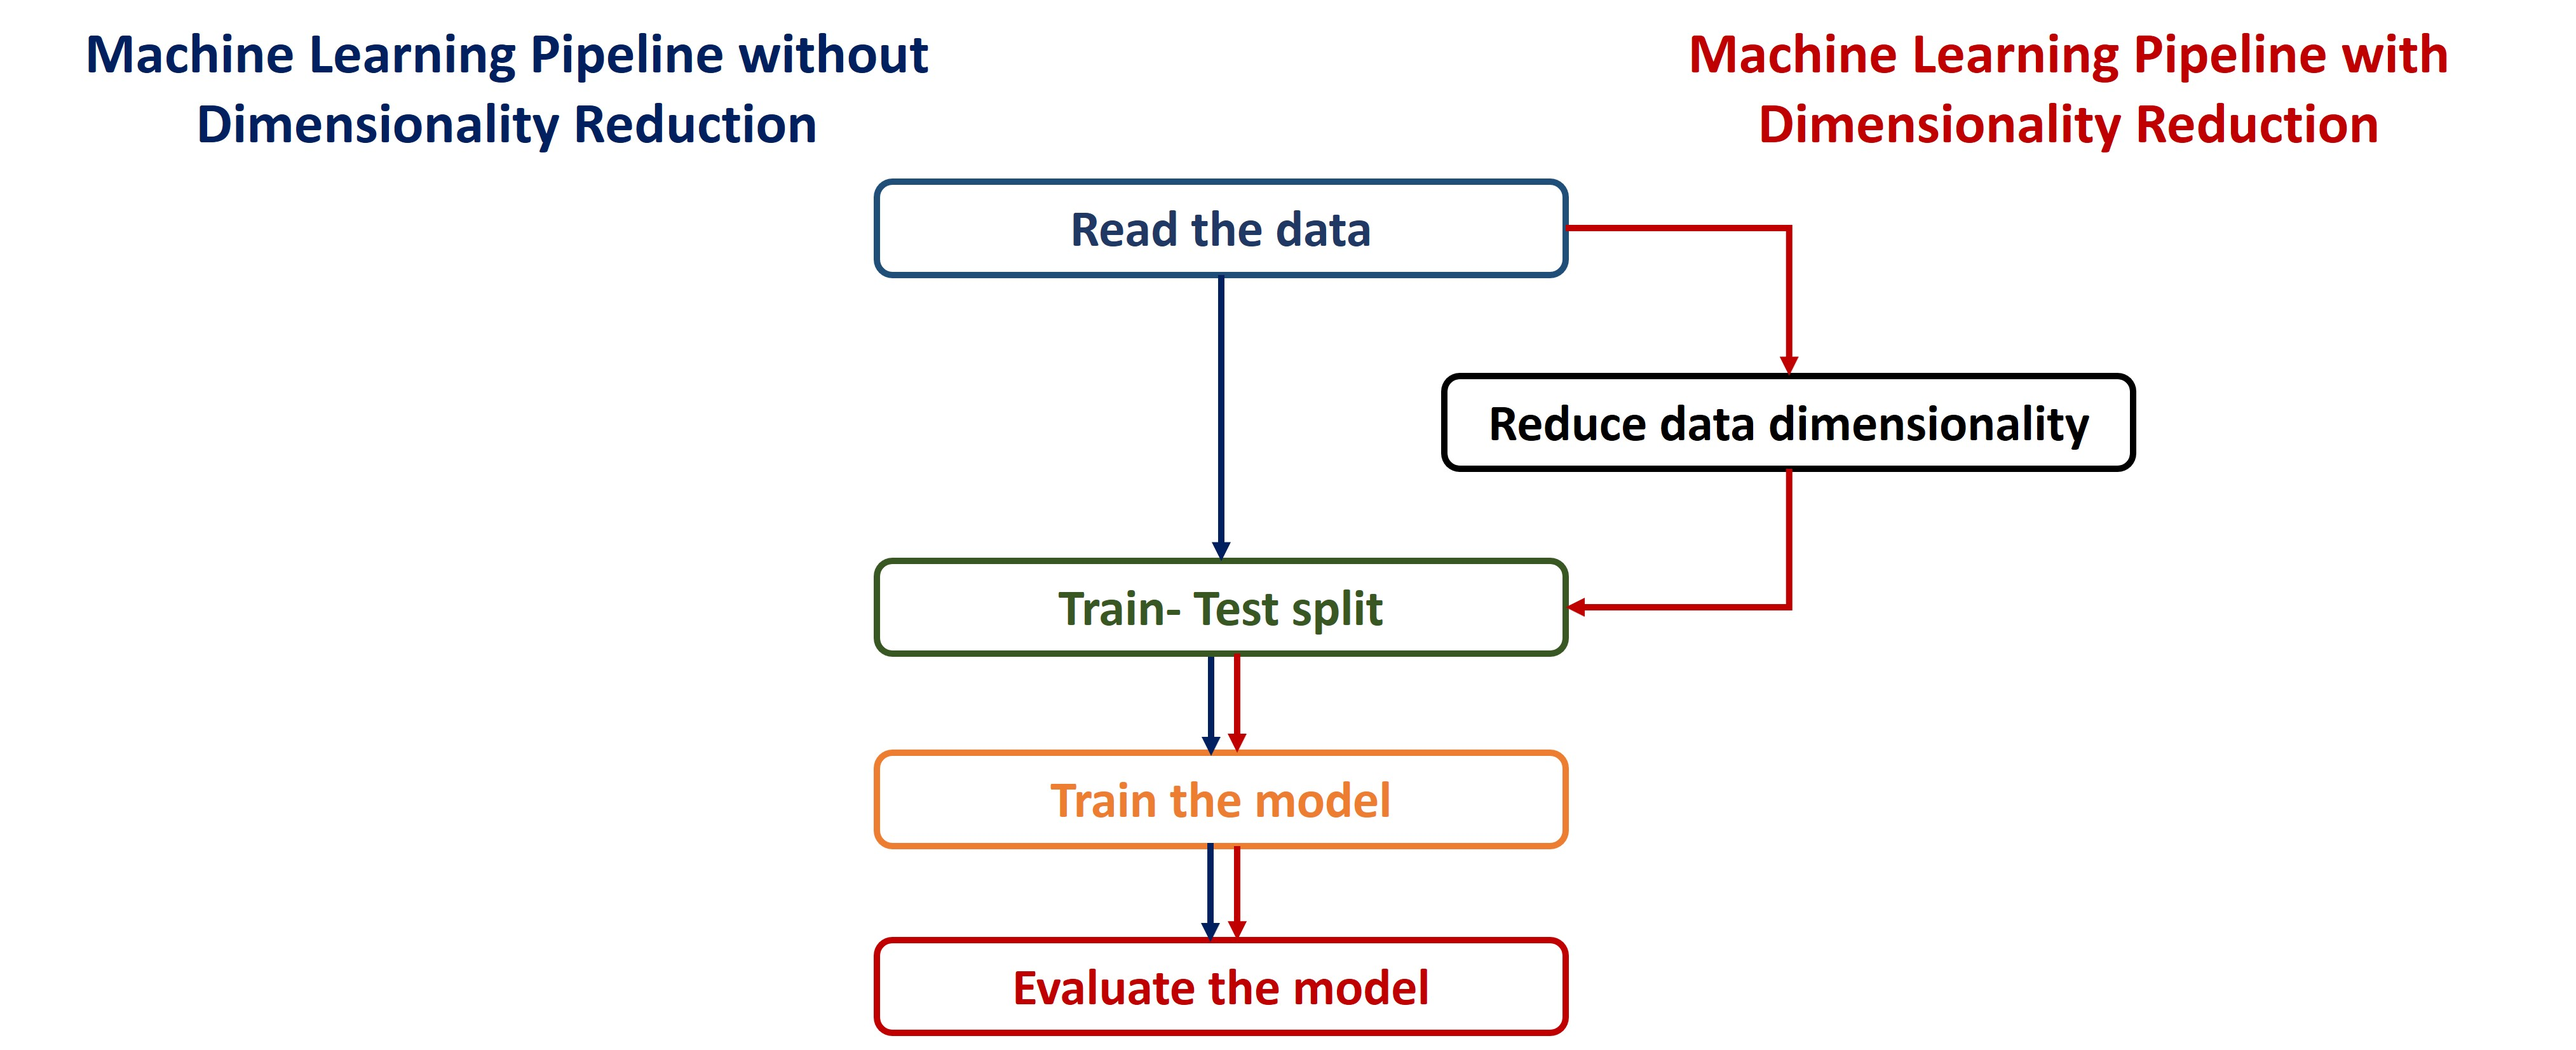
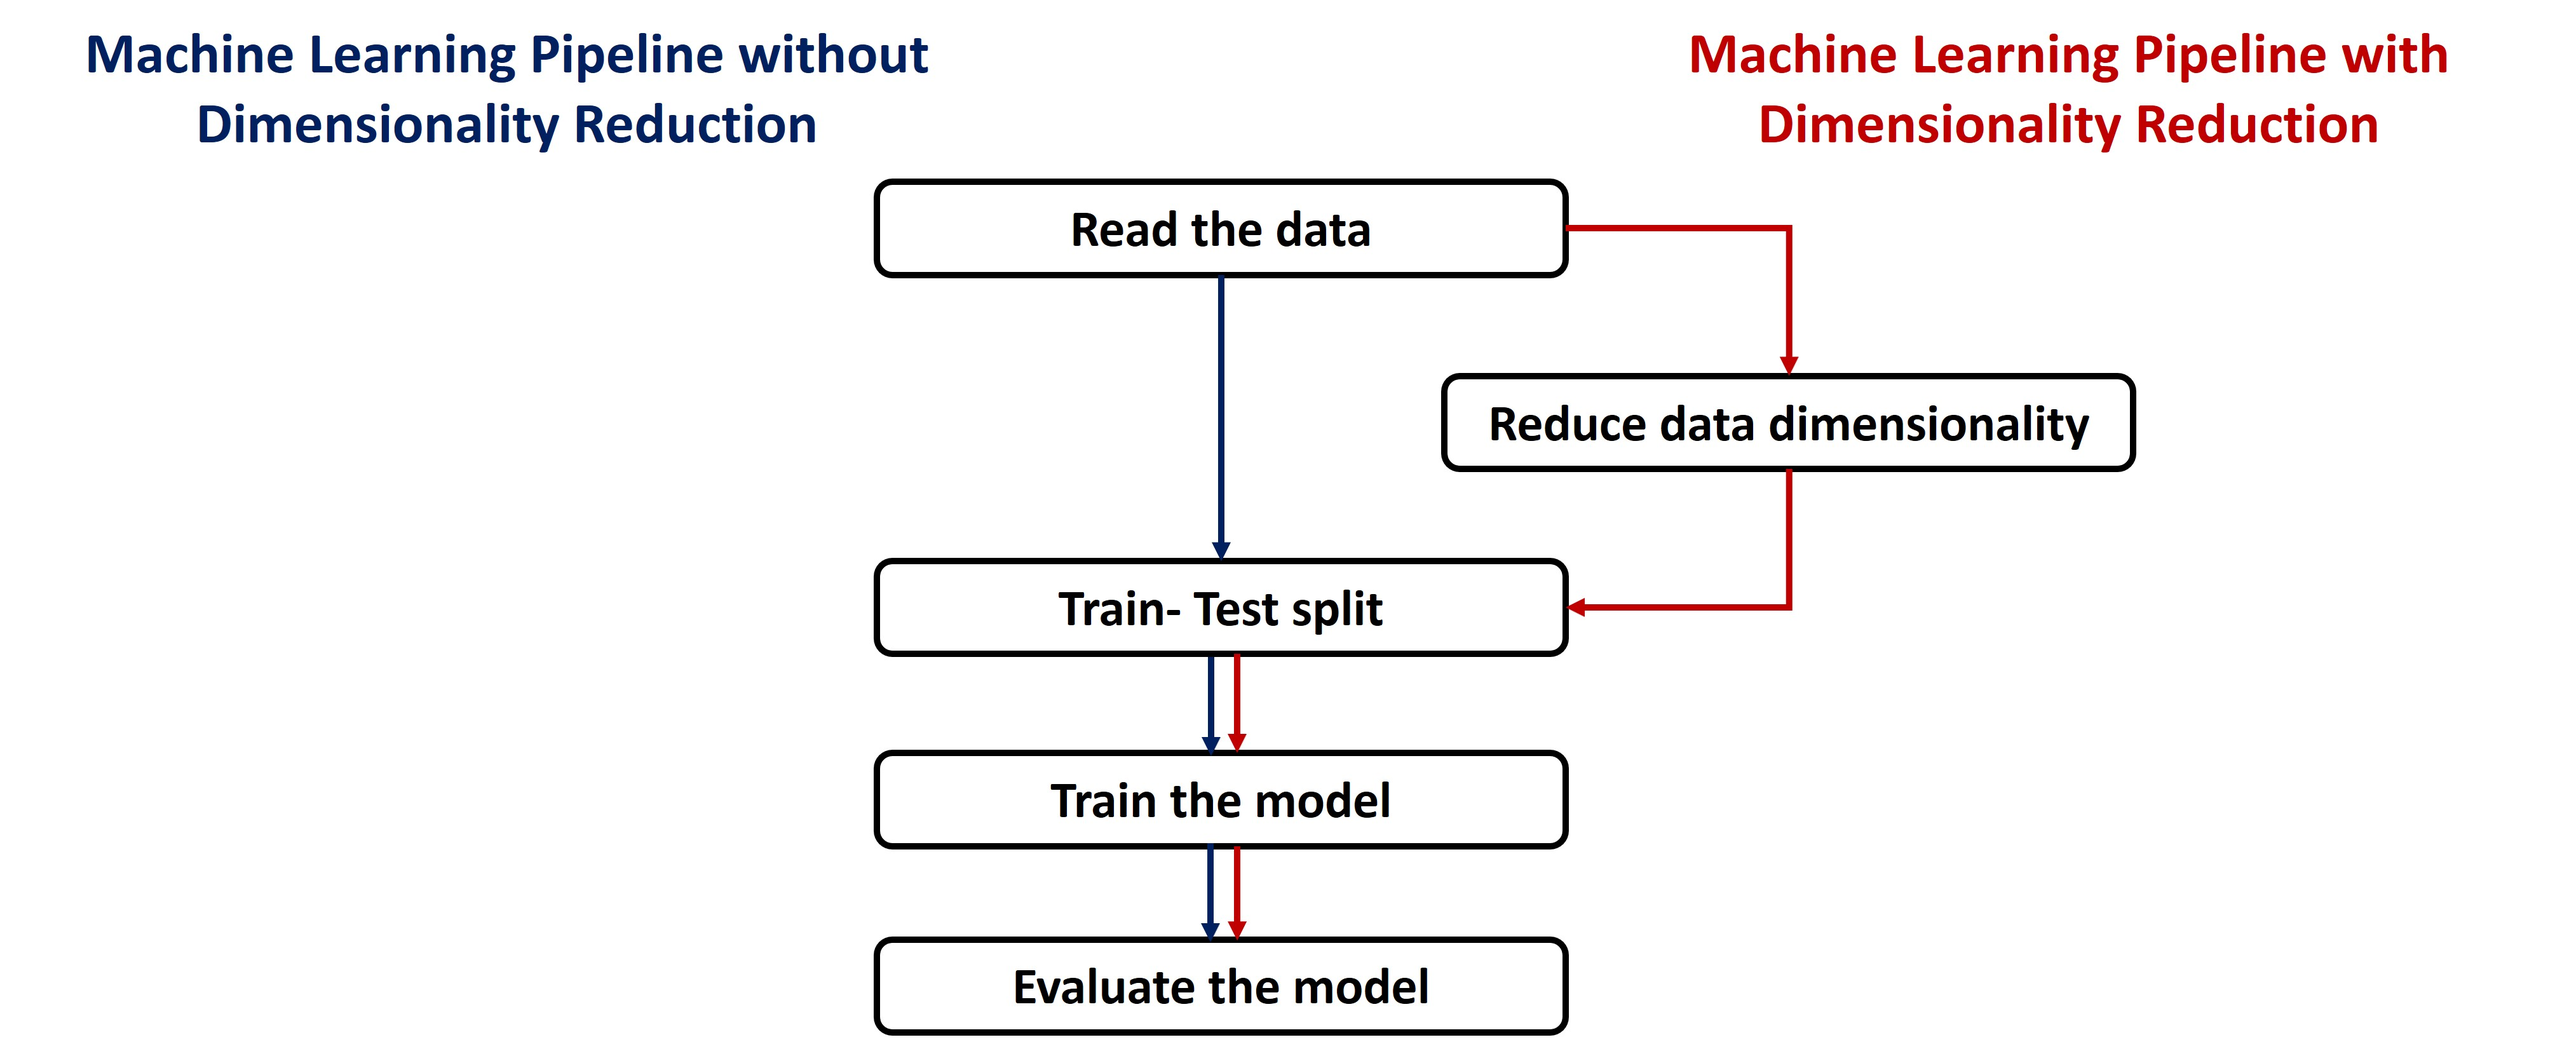
requested changes done, mini-project solution add

diff --git a/README.md b/README.md
@@ -46,8 +46,5 @@ To run the notebooks, in the IDE of your choice choose *ml4food* as your Python 
  - Automatic graded exercises.
  - Check applications of ML in Food Science from Overview chapter.
  - Clustering for the Swiss Food Composition Dataset.
- - Example where dimensionality reduction and supervised learning
- are used as part of the same pipeline. This will help in visualizing
- the models.
  - Recreation of M2-Figure 5 GIF.
  - Selection of multiple categories in the unsupervised plots.

diff --git a/images/plots/README.md b/images/plots/README.md
@@ -1,0 +1,2 @@
+## Plots
+In this folder you will find all plots generated from the mini-project.
